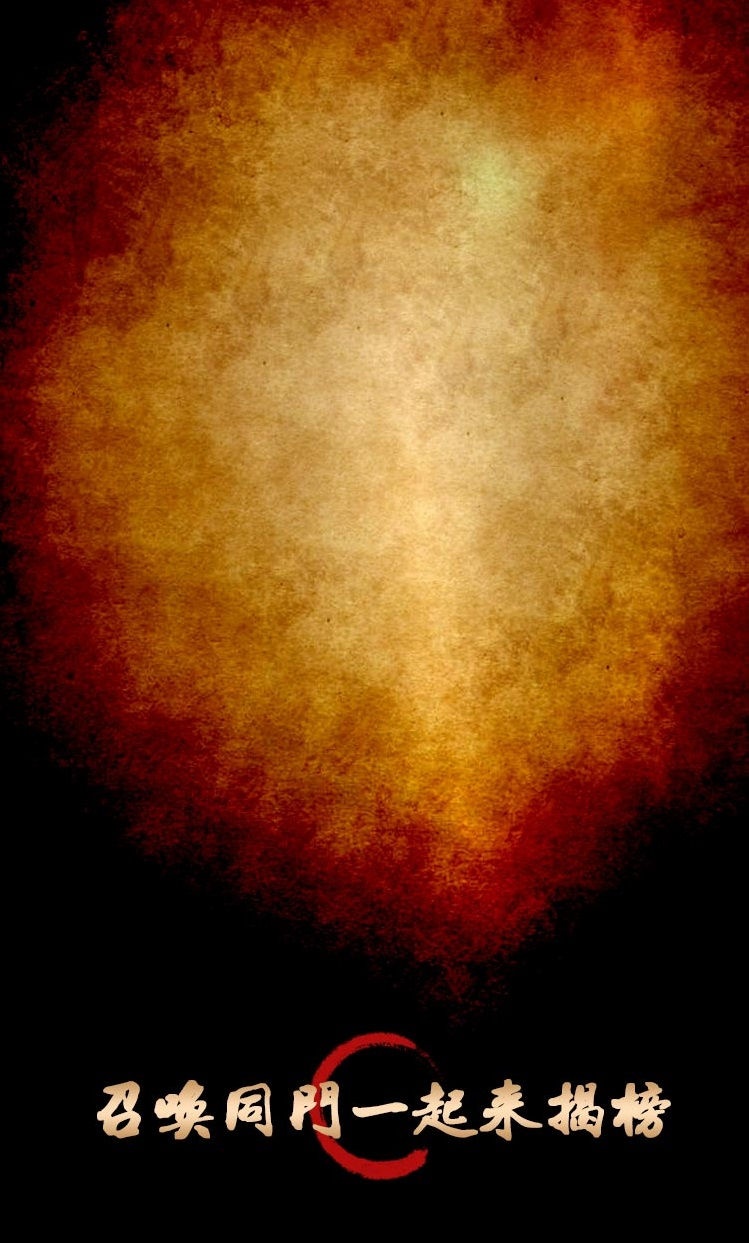
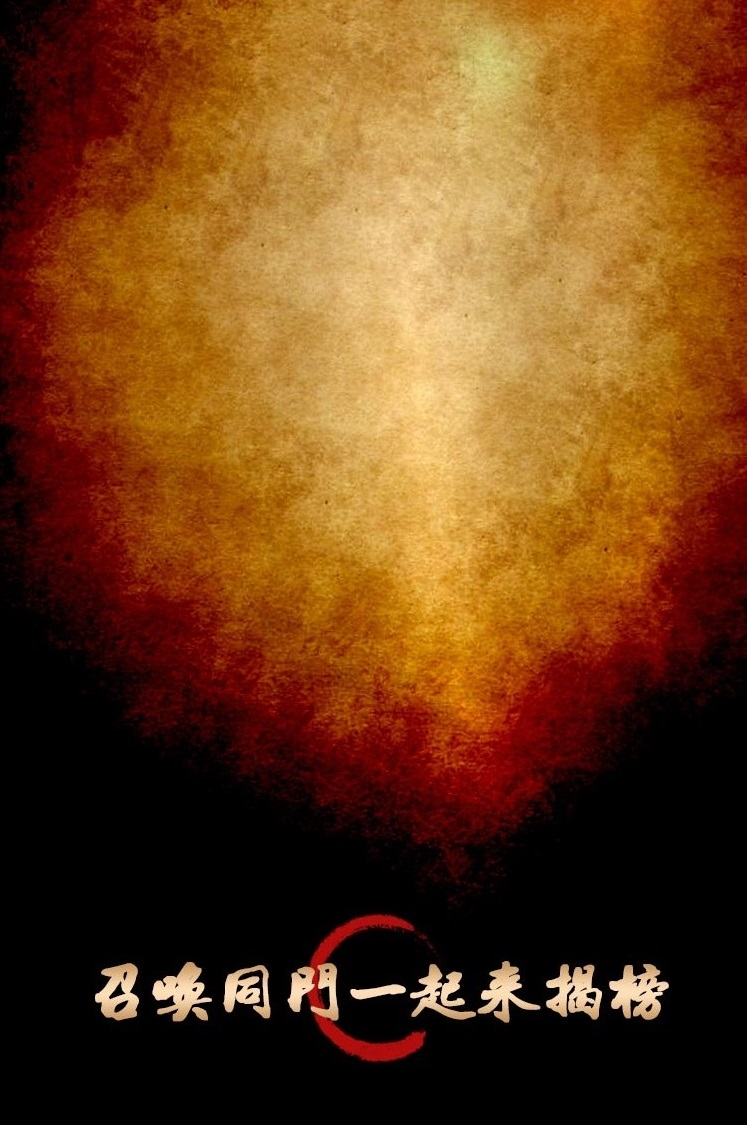
vnewcd -- mslsaveworld miaoyuanshuixiang

diff --git a/vnewcd/cases/msl_saveworld/index.html b/vnewcd/cases/msl_saveworld/index.html
@@ -81,7 +81,7 @@ a{
 <body class="bg" ms-controller="game-control">
 
 <div id="1" ms-click="switch_view('2')" style="display:block">
-  <img src="images/cover-min.png" style="width:90%; margin-left:5%; margin-top:40px"/>
+  <img src="images/cover-min.png" style="width:70%; margin-left:15%; margin-top:40px"/>
 
   <div style="position: absolute; bottom: 40px; text-align:center; width:100%" class="animated infinite pulse">
     <img src="images/start_btn.png" style=" width: 150px;height: 50px;"/>
@@ -89,10 +89,10 @@ a{
 </div>
 
 <div id="2" style="display:none">
-  <img src="images/light_t1-min.png" style="width:80%; margin-left:10%; margin-top:10px"/>
+  <img src="images/light_t1-min.png" style="width:70%; margin-left:15%; margin-top:10px"/>
   <div class="light">
 
-    <div style="width:60%; margin-left:20%; background-image:url('images/lightdown-min.png');background-size:100% 100%">
+    <div style="width:50%; margin-left:25%; background-image:url('images/lightdown-min.png');background-size:100% 100%">
         <div><img src="images/lightup-min.png" width="100%" ms-css-opacity="opacity" style="opacity:0.01"></div>
     </div>
 
@@ -110,7 +110,7 @@ a{
 </div>
 
 <div id="3" style="display:none">
-  <img src="images/failure.png" style="width:84%; margin-left:8%; margin-top:10px"/>
+  <img src="images/failure.png" style="width:70%; margin-left:15%; margin-top:10px"/>
   <div class="buttons">
       <div class="left">
         <a href="http://service.weibo.com/share/share.php?url=http://www.vnewcd.com/cases/msl_saveworld&title=香港秋季国际灯展,邀您一起拯救冰川,更有精细好礼等着您!&pic=http//www.vnewcd.com/cases/msl_saveworld/images/logo.jpg" target="_blank">
@@ -127,9 +127,9 @@ a{
 </div>
 
 <div id="4" style="display:none">
-  <img src="images/success.png" style="width:84%; margin-left:8%; margin-top:10px"/>
+  <img src="images/success.png" style="width:70%; margin-left:15%; margin-top:10px"/>
   <div class="buttons">
-      <div class="left">
+      <div class="left ">
         <a href="http://service.weibo.com/share/share.php?url=http://www.vnewcd.com/cases/msl_saveworld&title=香港秋季国际灯展,邀您一起拯救冰川,更有精细好礼等着您!&pic=http//www.vnewcd.com/cases/msl_saveworld/images/logo.jpg" target="_blank">
           <img src="images/again.png" width="120px" height="50px"/></a></div>
       <div class="right">
@@ -171,7 +171,7 @@ var vm = avalon.define({
     $("#tap_btn_img").attr("src","images/light_btn1-min.png");
 
     pressInt = setInterval(function(){
-      vm.opacity += 0.01;
+      vm.opacity += 0.02;
       if (vm.opacity >= 1) {
         vm.opacity = 1;
         vm.switch_view(4);

diff --git a/vnewcd/cases/hkdc07/index2.html b/vnewcd/cases/hkdc07/index2.html
@@ -340,7 +340,7 @@
 
 </head>
 
-<body  id="bg" ms-controller='game_controller'>
+<body  id="bg" ms-controller='game_controller'  onload="opener.location.reload(true)">
 
     <div class="page loading">
   		<div class="container">

diff --git a/vnewcd/cases/miaoyuanshuixiang/application/views/menu1.php b/vnewcd/cases/miaoyuanshuixiang/application/views/menu1.php
@@ -95,7 +95,7 @@ background-size: cover;
 </div>
     <div style="position: absolute;
     text-align: left;
-    height: 300px;
+    height: 280px;
     width: 60%;
     margin-top: 40%;
     margin-left: 20%;
@@ -144,19 +144,19 @@ background-size: cover;
     </div>
     <div style="position:fixed; bottom:0; width:100%; height:80px; background:rgba(0,0,0,0.6)">
       <div style="width:25%; float:left; height:80px; text-align:center">
-          <a href="/pages/view/about"><i class="fa fa-home fa-2x" aria-hidden="true" style="color:white; margin-top:10px; margin-bottom:5px"></i>
+          <a href="<?php echo base_url('/pages/view/about') ?>"><i class="fa fa-home fa-2x" aria-hidden="true" style="color:white; margin-top:10px; margin-bottom:5px"></i>
           <p style="color:white; font-size:12px">关于我们</p>
           <p style="color:white; font-size:12px">About Us</p></a>
       </div>
 
       <div style="width:25%; float:left; height:80px; text-align:center">
-          <a href="/pages/view/instruction"><i class="fa fa-book fa-2x" aria-hidden="true" style="color:white; margin-top:10px; margin-bottom:5px"></i>
+          <a href="<?php echo base_url('/pages/view/instruction') ?>"><i class="fa fa-book fa-2x" aria-hidden="true" style="color:white; margin-top:10px; margin-bottom:5px"></i>
           <p style="color:white; font-size:12px">资质证明</p>
           <p style="color:white; font-size:12px">Certification</p></a>
       </div>
 
       <div style="width:25%; float:left; height:80px; text-align:center">
-          <a href="/pages/view/lesson"><i class="fa fa-briefcase fa-2x" aria-hidden="true" style="color:white; margin-top:10px; margin-bottom:5px"></i>
+          <a  href="<?php echo base_url('/pages/view/lesson') ?>"> <i class="fa fa-briefcase fa-2x" aria-hidden="true" style="color:white; margin-top:10px; margin-bottom:5px"></i>
           <p style="color:white; font-size:12px">案例与方案</p>
           <p style="color:white; font-size:12px">Solutions</p></a>
       </div>

diff --git a/vnewcd/cases/hkdc07/add_prize.php b/vnewcd/cases/hkdc07/add_prize.php
@@ -48,7 +48,7 @@
 	$count_level2 = $db->get_var("SELECT count(*) FROM `T_MSL_HKDC` WHERE `LEVEL` = '2'");
 	$count_level3 = $db->get_var("SELECT count(*) FROM `T_MSL_HKDC` WHERE `LEVEL` = '3'");
 
-	if ($level == 1 && $count_level1 >= 3) {
+	if ($level == 1 && $count_level1 >= 10) {
 		$data_result["success"] = 0;
 		$data_result["errorCode"] = 3;
 		$data_result['message'] = "今天的书迷证已经抢光啦！再玩一次说不定会抢到其他礼品哦！";
@@ -57,7 +57,7 @@
 		exit;
 	}
 
-	if ($level == 2 && $count_level2 >= 10) {
+	if ($level == 2 && $count_level2 >= 30) {
 		$data_result["success"] = 0;
 		$data_result["errorCode"] = 3;
 		$data_result['message'] = "今天的书展VIP门票已经抢光啦！再玩一次说不定会抢到其他礼品哦！";
@@ -66,7 +66,7 @@
 		exit;
 	}
 
-	if ($level == 3 && $count_level3 >= 30) {
+	if ($level == 3 && $count_level3 >= 50) {
 		$data_result["success"] = 0;
 		$data_result["errorCode"] = 3;
 		$data_result['message'] = "今天的书展门票已经抢光啦！再玩一次说不定会抢到其他礼品哦！";

diff --git a/vnewcd/cases/miaoyuanshuixiang/application/views/lesson.php b/vnewcd/cases/miaoyuanshuixiang/application/views/lesson.php
@@ -2,11 +2,11 @@
 <html lang="zh-cmn-Hans">
 <head>
     <meta http-equiv="Content-Type" content="text/html; charset=utf-8"/>
-    <title>西藏博物馆</title>
-    <meta name="keywords" content="西藏博物馆"/>
-    <meta name="description" content="西藏博物馆"/>
+    <title>淼源水箱</title>
+    <meta name="keywords" content="淼源水箱"/>
+    <meta name="description" content="淼源水箱"/>
     <meta name="robots" content="all"/>
-    <meta name="copyright" content="西藏博物馆"/>
+    <meta name="copyright" content="淼源水箱"/>
     <meta http-equiv="X-UA-Compatible" content="IE=edge" />
     <meta name="viewport" content="width=device-width, initial-scale=1, maximum-scale=1, minimum-scale=1, user-scalable=no"/>
     <meta name="apple-touch-fullscreen" content="yes" />

diff --git a/vnewcd/cases/miaoyuanshuixiang/application/models/Content_model.php b/vnewcd/cases/miaoyuanshuixiang/application/models/Content_model.php
@@ -53,7 +53,10 @@ class Content_model extends CI_Model
     public function getList($list_type, $page_start)
     {
         $interval = $this->config->item('page_interval');
+        $this->db->order_by("PUBLISH_TIME", "asc");
         $query = $this->db->get_where('T_CONTENT', array('CONTENT_TYPE' => $list_type), $interval, $page_start);
+
+
         $data["success"] = true;
         $data["errorCode"] = 0;
         $data["error"] = 0;

diff --git a/vnewcd/cases/miaoyuanshuixiang/application/config/config.php b/vnewcd/cases/miaoyuanshuixiang/application/config/config.php
@@ -24,7 +24,7 @@ defined('BASEPATH') OR exit('No direct script access allowed');
 |
 */
 // $config['base_url'] = 'http://www.vnewcd.com/';
- $config['base_url'] = 'http://127.0.0.1/';
+ $config['base_url'] = 'http://www.vnewcd.com/cases/miaoyuanshuixiang/';
 /*
 |--------------------------------------------------------------------------
 | Index File

diff --git a/vnewcd/cases/miaoyuanshuixiang/application/config/database.php b/vnewcd/cases/miaoyuanshuixiang/application/config/database.php
@@ -80,7 +80,7 @@ $query_builder = TRUE;
 
 $db['default'] = array(
 	'dsn'	=> '',
-	'hostname' => 'www.vnewcd.com:3306',
+	'hostname' => '114.55.112.244:3306',
 	'username' => 'vnewcd',
 	'password' => 'bK4cJqcVx5cvcXQ5',
 	'database' => 'miaoyuan',
